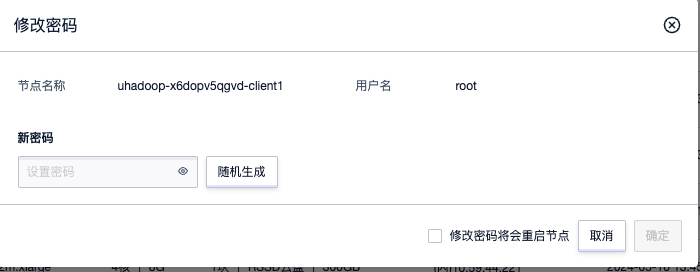
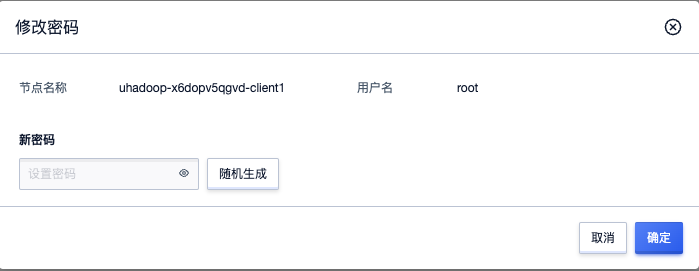
新版客户端文档自我Review

diff --git a/guide/client/index.md b/guide/client/index.md
@@ -1,6 +1,6 @@
 # 客户端管理
 
-客户端节点不部署集群服务，仅部署集群相关服务客户端，包括HDFS客户端、Yarn客户端、Hive客户端、HBase客户端等，用户可通过客户端节点与集群进行交互如提交作业等，以保证客户端环境与集群环境隔离，保证集群服务稳定。
+客户端节点不部署集群服务，仅部署集群相关服务客户端，包括HDFS客户端、Yarn客户端、Hive客户端、HBase客户端等，用户可通过客户端节点与集群进行交互如提交作业等，通过客户端环境与集群环境隔离保证集群服务稳定。
 
 点击实例详情，选择“客户端管理”Tab可进入客户端管理页面。
 
@@ -21,7 +21,7 @@
 
 可根据需要对客户端进行配置，注意事项：
 
-* 客户端计算规格与存储在创建之后也可以动态调整，可按需配置；
+* 客户端计算规格与存储在创建之后可以动态调整；
 * 为保证访问安全，请勿使用弱密码。
 
 ![client_add](../../images/client/client_add.png)
@@ -38,9 +38,9 @@
 
 支持升级规格与修改磁盘大小两种操作，说明如下：
 
-\* 升级规格：修改操作节点CPU/内存配置，升级节点期间会重启机器，建议在业务低峰期操作，规格暂不⽀持降级。
+\* 升级规格：修改操作节点CPU/内存配置，升级节点期间会重启机器，规格暂不⽀持降级。
 
-\* 修改磁盘大小：修改操作节点磁盘大小，升级期间节点无需重启，仅新机型支持该操作，具体见前端操作限制。
+\* 修改磁盘大小：修改操作节点磁盘大小，升级期间节点无需重启。
 
 ## 修改密码
 
@@ -53,7 +53,6 @@
 注意事项：
 
 * 为保证访问安全，请不要使用弱密码；
-* 修改密码会重启节点。
 
 ## 绑定/解绑EIP
 
@@ -67,11 +66,11 @@
 
 ## 绑定防火墙
 
-客户端绑定EIP同时可通过绑定防火墙来限制客户端外网访问，保证客户端访问安全。具体可点击”绑定防火墙“进行防火墙切换。
+客户端绑定EIP同时可通过绑定防火墙来限制客户端外网访问，以保证客户端访问安全。具体可点击”绑定防火墙“按钮进行防火墙切换。
 
 ![client_firewal](../../images/client/client_firewal.png)
 
-防火箱内容修改可在[外网防火墙](https://console.ucloud.cn/unet/ufirewall)页面进行修改。
+防火墙内容修改可在[外网防火墙](https://console.ucloud.cn/unet/ufirewall)页面进行修改。
 
 ## 删除客户端
 
@@ -81,4 +80,4 @@
 
 注意事项：
 
-* 客户端删除不可恢复，删除前请备份节点上重要数据。
+* 客户端节点端删除不可恢复，删除前请备份节点上重要数据。

diff --git a/developer/access.md b/developer/access.md
@@ -1,8 +1,8 @@
 # 集群访问
 
 UHadoop提供两种集群访问方式：
-* 集群客户端：在不登录集群节点情况下，通过集群客户端可访问集群；
-* 集群密码：可通过密码登陆集群节点，在节点上访问集群或者在集群部署额外的服务；
+* 集群客户端：在不登录集群节点情况下，通过集群客户端节点访问集群；
+* 集群密码：可通过密码登陆集群节点，在节点上访问集群。
 
 优先建议使用集群客户端方式访问集群。
 
